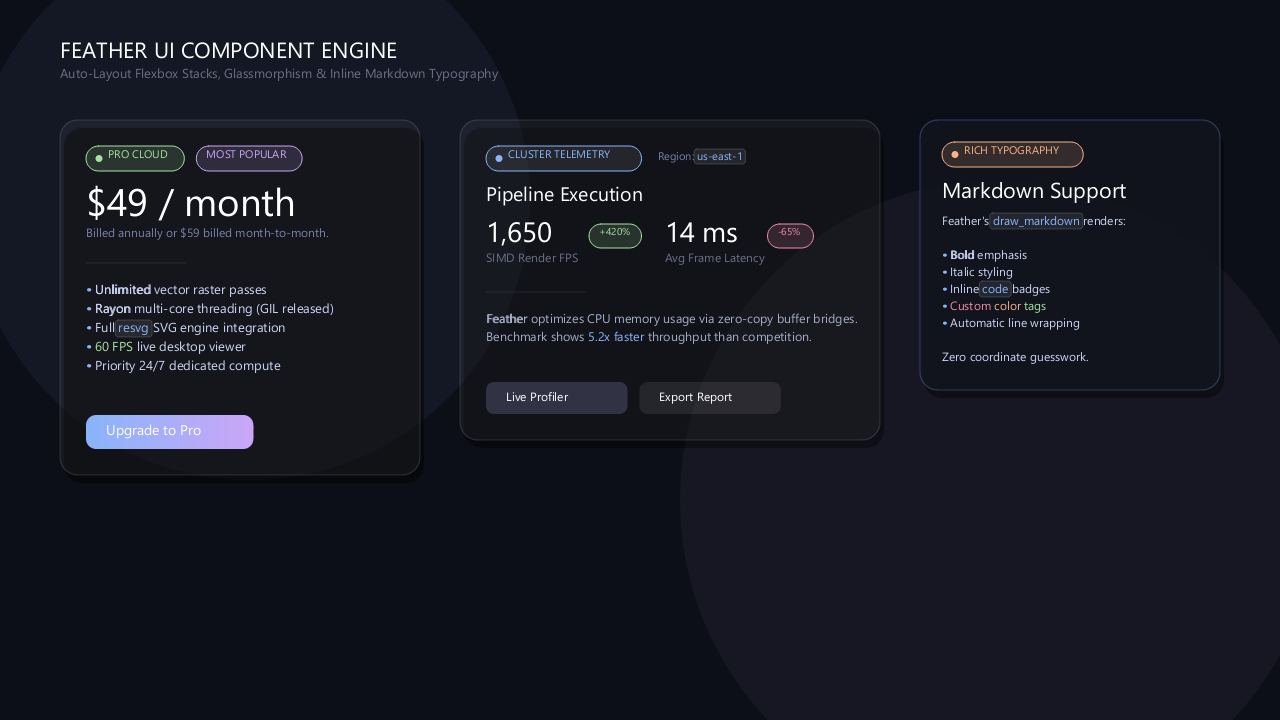
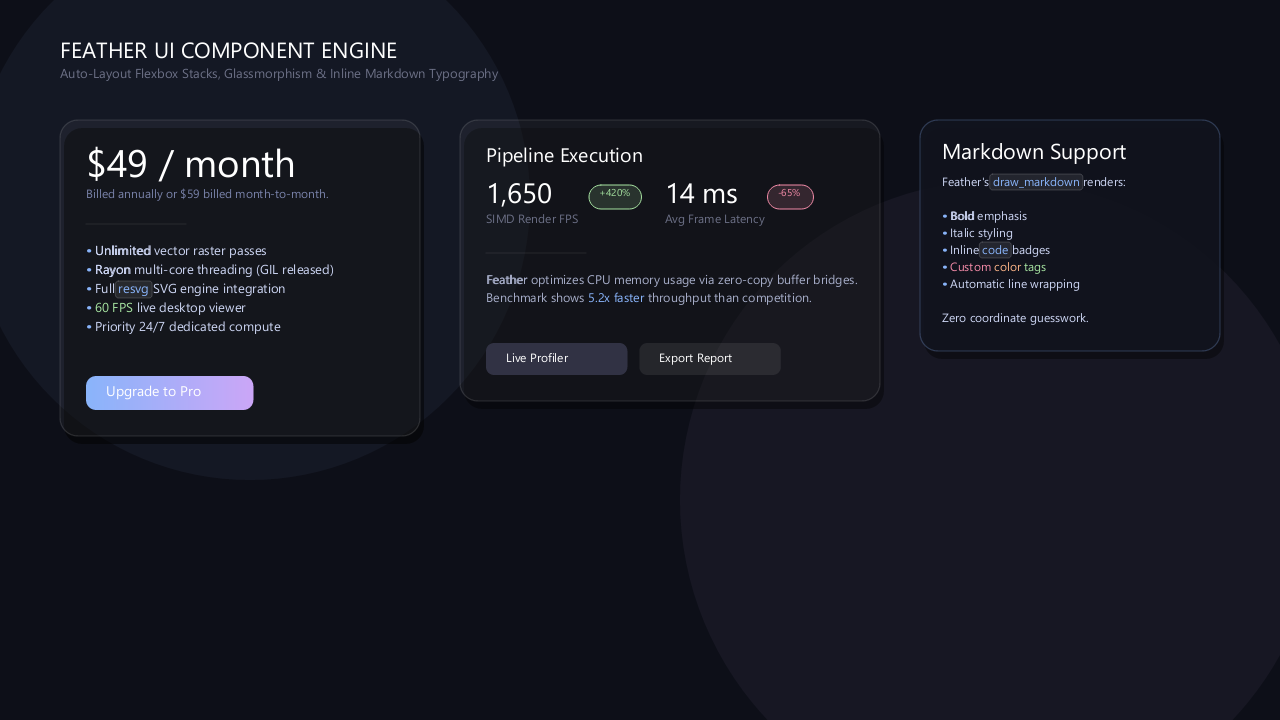
Refactor UI showcase: remove badge headers from cards for cleaner design

diff --git a/examples/ui_showcase.py b/examples/ui_showcase.py
@@ -37,12 +37,6 @@ def generate_ui_preview():
         shadow_color="rgba(0, 0, 0, 0.50)",
     )
 
-    # Header row with title and badge
-    header_row = ui.Row(gap=12.0)
-    header_row.add(ui.Badge("PRO CLOUD", color="#a6e3a1", bg_color="rgba(166, 227, 161, 0.15)"))
-    header_row.add(ui.Badge("MOST POPULAR", color="#cba6f7", bg_color="rgba(203, 166, 247, 0.15)", dot=False))
-    card1.add(header_row)
-
     card1.add(ui.Text("# $49 / month", size=24.0, color="#ffffff"))
     card1.add(ui.Text("Billed annually or $59 billed month-to-month.", size=12.0, color="#7982a9"))
     card1.add(ui.Divider(thickness=1.0, color="rgba(255, 255, 255, 0.08)", margin=6.0))
@@ -71,11 +65,6 @@ def generate_ui_preview():
         background="rgba(255, 255, 255, 0.04)",
         border_color="rgba(255, 255, 255, 0.12)",
     )
-
-    card2.add(ui.Row([
-        ui.Badge("CLUSTER TELEMETRY", color="#89b4fa"),
-        ui.Text("Region: `us-east-1`", size=11.0, color="#7982a9")
-    ], gap=16.0))
 
     card2.add(ui.Text("### Pipeline Execution", size=17.0, color="#ffffff"))
 
@@ -113,7 +102,6 @@ def generate_ui_preview():
         border_color="rgba(137, 180, 250, 0.25)",
     )
 
-    card3.add(ui.Badge("RICH TYPOGRAPHY", color="#fab387", bg_color="rgba(250, 179, 135, 0.15)"))
     card3.add(ui.Text("## Markdown Support", size=16.0, color="#ffffff"))
     
     code_demo = (

diff --git a/README.md b/README.md
@@ -416,12 +416,6 @@ from feather import ui
 # 🎛 Compose a modern glassmorphic card with flex stacks
 card = ui.Card(width=360, padding=24, corner_radius=18, background="rgba(255, 255, 255, 0.04)")
 
-# Header row with status pills
-header = ui.Row(gap=10)
-header.add(ui.Badge("PRO CLOUD", color="#a6e3a1"))
-header.add(ui.Badge("POPULAR", color="#cba6f7", dot=False))
-card.add(header)
-
 card.add(ui.Text("# $49 / month", size=24, color="#ffffff"))
 card.add(ui.Metric("1,650 FPS", label="SIMD Render Rate", trend="+420% vs Pillow"))
 card.add(ui.Divider())
